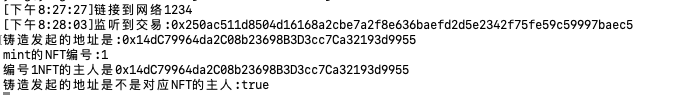
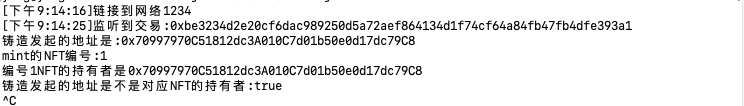
update Chapter FrontRun V2

diff --git a/23_Frontrun/frontrun.js b/23_Frontrun/frontrun.js
@@ -10,7 +10,7 @@ const contractABI = [
     "function ownerOf(uint256) public view returns (address) ",
     "function totalSupply() view returns (uint256)"
 ]
-const contractAddress = '0xfbAb4aa40C202E4e80390171E82379824f7372dd'
+const contractAddress = '0xC76A71C4492c11bbaDC841342C4Cb470b5d12193'
 const contractFM = new ethers.Contract(contractAddress, contractABI, provider)
 
 //3.创建Interface对象，用于检索mint函数。
@@ -24,7 +24,7 @@ const privateKey = '0xac0974bec39a17e36ba4a6b4d238ff944bacb478cbed5efcae784d7bf4
 const wallet = new ethers.Wallet(privateKey, provider)
 
 //5. 构建正常mint函数，检验mint结果，显示正常。
-const nornaltx = async () => {
+const normaltx = async () => {
     provider.on('pending', async (txHash) => {
         provider.getTransaction(txHash).then(
             async (tx) => {
@@ -34,8 +34,8 @@ const nornaltx = async () => {
                     await tx.wait()
                     const tokenId = await contractFM.totalSupply()
                     console.log(`mint的NFT编号:${tokenId}`)
-                    console.log(`编号${tokenId}NFT的主人是${await contractFM.ownerOf(tokenId)}`)
-                    console.log(`铸造发起的地址是不是对应NFT的主人:${tx.from === await contractFM.ownerOf(tokenId)}`)
+                    console.log(`编号${tokenId}NFT的持有者是${await contractFM.ownerOf(tokenId)}`)
+                    console.log(`铸造发起的地址是不是对应NFT的持有者:${tx.from === await contractFM.ownerOf(tokenId)}`)
                 }
             }
         )
@@ -57,15 +57,15 @@ const frontRun = async () => {
                 data: tx.data
             }
             const aimTokenId = (await contractFM.totalSupply()).add(1)
-            console.log(`即将被mint的NFT编号是:${aimTokenId}`)
+            console.log(`即将被mint的NFT编号是:${aimTokenId}`)//打印应该被mint的nft编号
             const sentFR = await wallet.sendTransaction(frontRunTx)
             console.log(`正在frontrun交易`)
             const receipt = await sentFR.wait()
             console.log(`frontrun 交易成功,交易hash是:${receipt.transactionHash}`)
             console.log(`铸造发起的地址是:${tx.from}`)
-            console.log(`编号${aimTokenId}NFT的主人是${await contractFM.ownerOf(aimTokenId)}`)
-            console.log(`编号${aimTokenId.add(1)}的NFT的主人是:${await contractFM.ownerOf(aimTokenId.add(1))}`)
-            console.log(`铸造发起的地址是不是对应NFT的主人:${tx.from === await contractFM.ownerOf(aimTokenId)}`)
+            console.log(`编号${aimTokenId}NFT的持有者是${await contractFM.ownerOf(aimTokenId)}`)//刚刚mint的nft持有者并不是tx.from
+            console.log(`编号${aimTokenId.add(1)}的NFT的持有者是:${await contractFM.ownerOf(aimTokenId.add(1))}`)//tx.from被wallet.address抢跑，mint了下一个nft
+            console.log(`铸造发起的地址是不是对应NFT的持有者:${tx.from === await contractFM.ownerOf(aimTokenId)}`)//比对地址，tx.from被抢跑
             //检验区块内数据结果
             const block = await provider.getBlock(tx.blockNumber)
             console.log(`区块内交易数据明细:${block.transactions}`)//在区块内，后发交易排在先发交易前，抢跑成功。
@@ -75,4 +75,4 @@ const frontRun = async () => {
 
 
 frontRun()
-//nornaltx()
+//normaltx()

diff --git a/23_Frontrun/readme.md b/23_Frontrun/readme.md
@@ -75,7 +75,7 @@ anvil
         "function totalSupply() view returns (uint256)"
     ]
 
-    const contractAddress = '0x0f5D1ef48f12b6f691401bfe88c2037c690a6afe'//合约地址
+    const contractAddress = '0xC76A71C4492c11bbaDC841342C4Cb470b5d12193'//合约地址
     const contractFM = new ethers.Contract(contractAddress, contractABI, provider)
     ```
 3. 创建一个包含我们感兴趣的`mint()`函数的`interface`对象，用于在监听过程中使用。如果你不了解它，可以阅读[WTF Ethers极简教程第20讲：解码交易](https://github.com/WTFAcademy/WTFEthers/blob/main/20_DecodeTx/readme.md)。
@@ -100,7 +100,7 @@ anvil
 
     ```js
     //5. 构建正常mint函数，检验mint结果，显示正常。
-    const nornaltx = async () => {
+    const normaltx = async () => {
     provider.on('pending', async (txHash) => {
         provider.getTransaction(txHash).then(
             async (tx) => {
@@ -110,8 +110,8 @@ anvil
                     await tx.wait()
                     const tokenId = await contractFM.totalSupply()
                     console.log(`mint的NFT编号:${tokenId}`)
-                    console.log(`编号${tokenId}NFT的主人是${await contractFM.ownerOf(tokenId)}`)//打印nft持有者地址
-                    console.log(`铸造发起的地址是不是对应NFT的主人:${tx.from === await contractFM.ownerOf(tokenId)}`)//比较二者是否一致
+                    console.log(`编号${tokenId}NFT的持有者是${await contractFM.ownerOf(tokenId)}`)//打印nft持有者地址
+                    console.log(`铸造发起的地址是不是对应NFT的持有者:${tx.from === await contractFM.ownerOf(tokenId)}`)//比较二者是否一致
                 }
             }
         )
@@ -144,9 +144,9 @@ anvil
             const receipt = await sentFR.wait()
             console.log(`frontrun 交易成功,交易hash是:${receipt.transactionHash}`)
             console.log(`铸造发起的地址是:${tx.from}`)
-            console.log(`编号${aimTokenId}NFT的主人是${await contractFM.ownerOf(aimTokenId)}`)//刚刚mint的nft持有者并不是tx.from
-            console.log(`编号${aimTokenId.add(1)}的NFT的主人是:${await contractFM.ownerOf(aimTokenId.add(1))}`)//tx.from被wallet.address抢跑，mint了下一个nft
-            console.log(`铸造发起的地址是不是对应NFT的主人:${tx.from === await contractFM.ownerOf(aimTokenId)}`)//比对地址，tx.from被抢跑
+            console.log(`编号${aimTokenId}NFT的持有者是${await contractFM.ownerOf(aimTokenId)}`)//刚刚mint的nft持有者并不是tx.from
+            console.log(`编号${aimTokenId.add(1)}的NFT的持有者是:${await contractFM.ownerOf(aimTokenId.add(1))}`)//tx.from被wallet.address抢跑，mint了下一个nft
+            console.log(`铸造发起的地址是不是对应NFT的持有者:${tx.from === await contractFM.ownerOf(aimTokenId)}`)//比对地址，tx.from被抢跑
             //检验区块内数据结果
             const block = await provider.getBlock(tx.blockNumber)
             console.log(`区块内交易数据明细:${block.transactions}`)//在区块内，后发交易排在先发交易前，抢跑成功。
